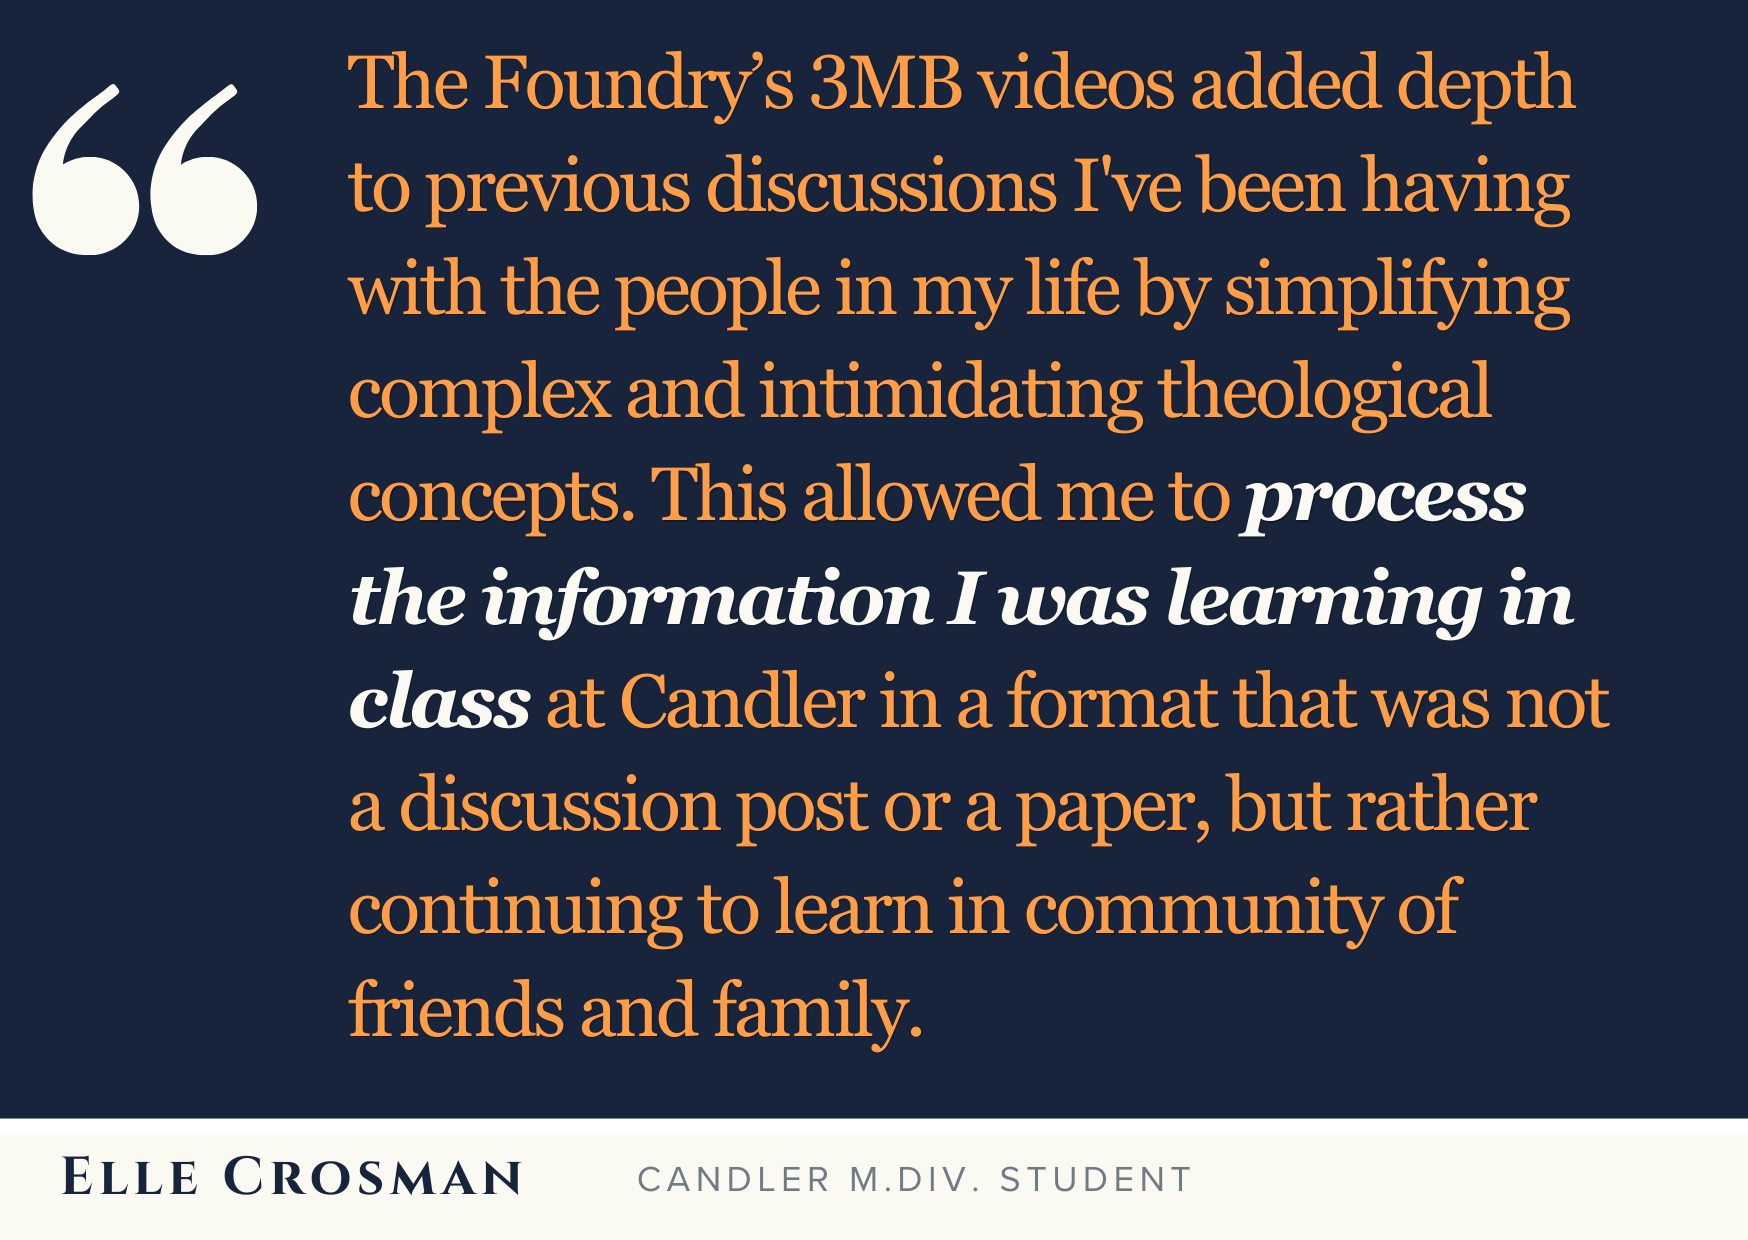
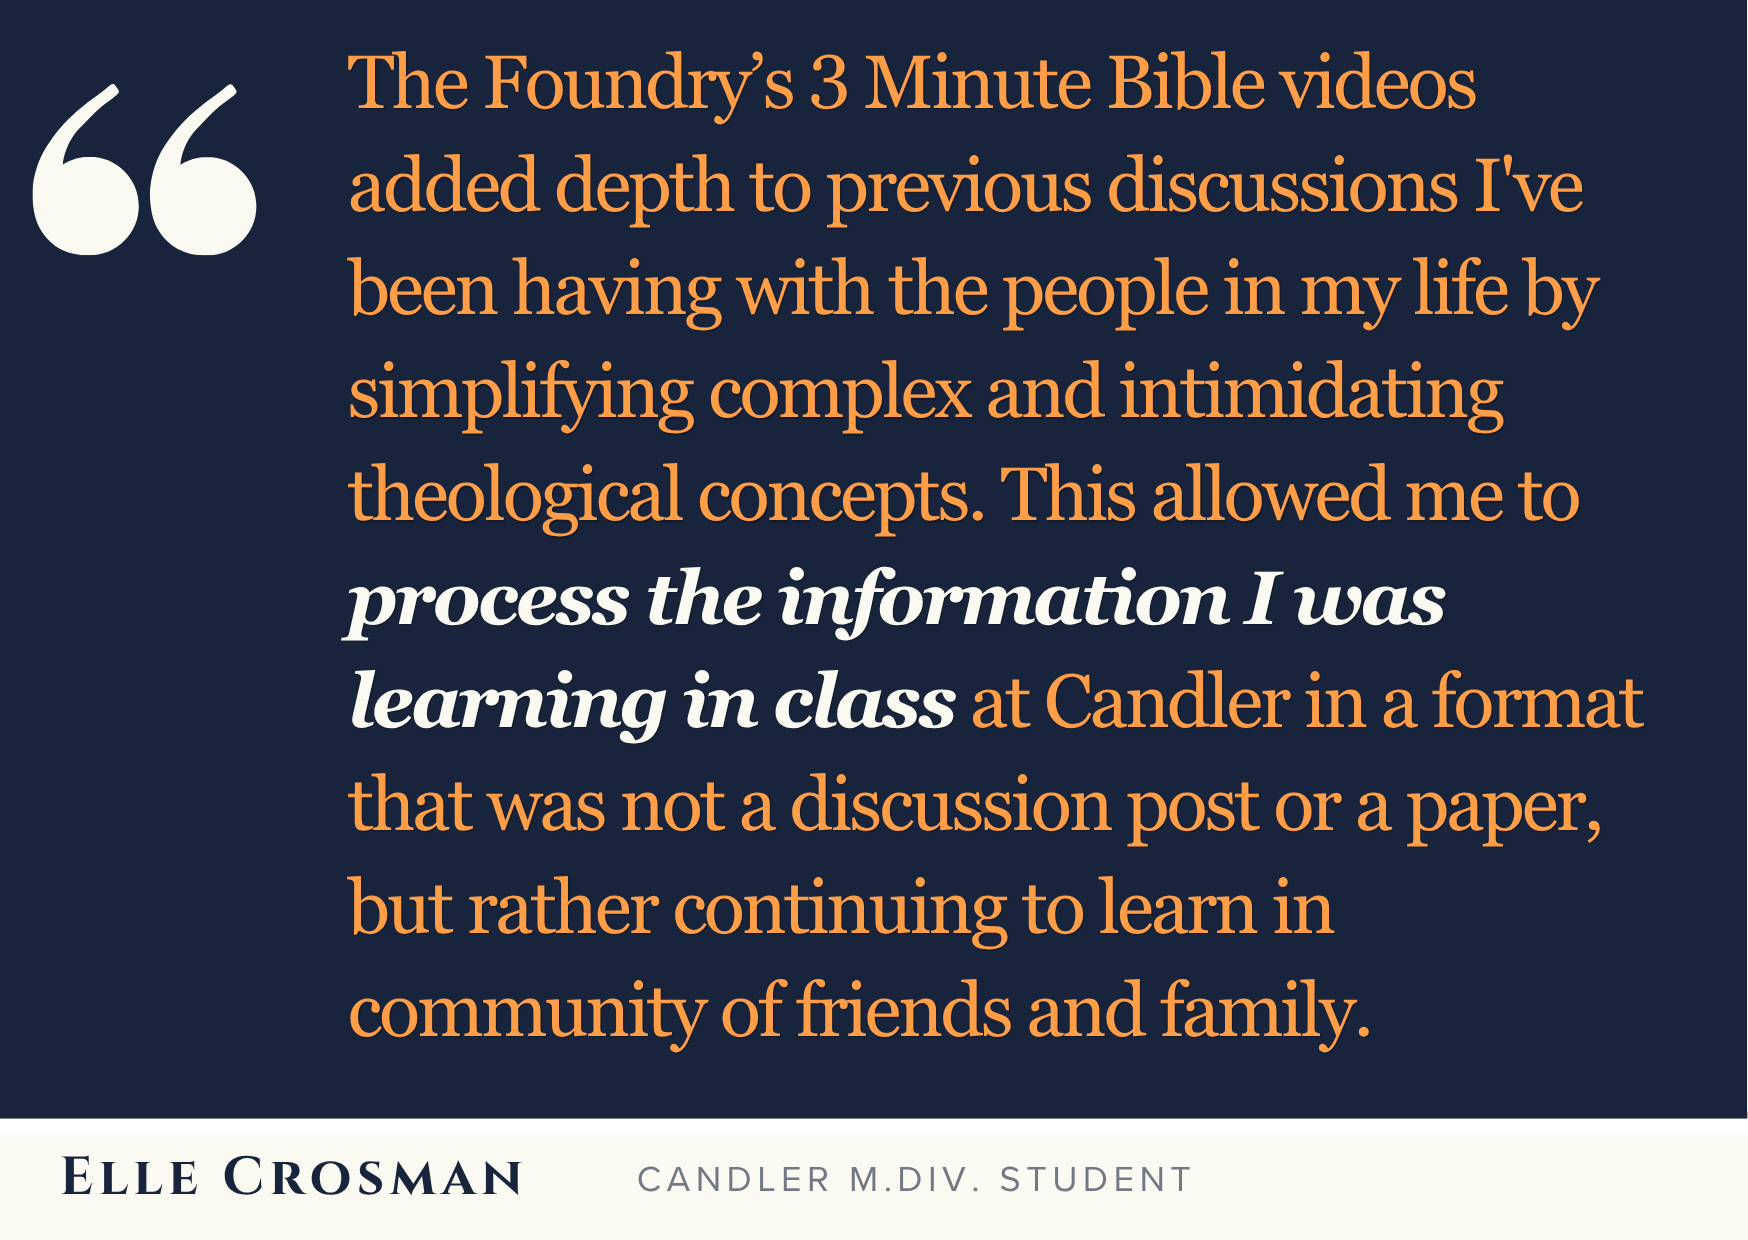
Reorder impact cards (rich cards first) + correct "3 Minute Bible" copy
- Cards with a back or clip feature now lead each row; plain front-only
  cards (david-cross, joel-kemp, joanne-solis-walker, mina-lee) sort last.
- Swap in corrected art for Elizabeth Arnold, Elle Crosman, Hannah Ripert,
  and Hangil Ryu: "3-Minute Bible"/"3MB" -> "3 Minute Bible". Clip caption
  text updated to match.

diff --git a/index.html b/index.html
@@ -7164,12 +7164,12 @@ var CI_STORY_PAGE = {
       stories: [
         { frontImage: '/assets/candler-impact-cards/hannah-ford.png',    backImage: '/assets/candler-impact-cards/hannah-ford-back.png',    name: 'Hannah Ford',    role: 'Prospective M.Div. Student',           width: CI_IMAGE_CARD_WIDTH, surface: CI_IMAGE_CARD_SURFACE, ink: CI_IMAGE_CARD_INK },
         { frontImage: '/assets/candler-impact-cards/tammy-edwards.png',   backImage: '/assets/candler-impact-cards/tammy-edwards-back.png',   name: 'Tammy Edwards',   role: 'Candler M.Div. Student',               width: CI_IMAGE_CARD_WIDTH, surface: CI_IMAGE_CARD_SURFACE, ink: CI_IMAGE_CARD_INK },
-        { frontImage: '/assets/candler-impact-cards/david-cross.png',     name: 'David Cross',     role: 'Woodruff Scholar, Candler M.Div. Student',                                                              width: CI_IMAGE_CARD_WIDTH, surface: CI_IMAGE_CARD_SURFACE, ink: CI_IMAGE_CARD_INK },
         { frontImage: '/assets/candler-impact-cards/kara-nelson.png',     backImage: '/assets/candler-impact-cards/kara-nelson-back.png',     name: 'Kara Nelson',     role: 'Candler M.Div. Student',               width: CI_IMAGE_CARD_WIDTH, surface: CI_IMAGE_CARD_SURFACE, ink: CI_IMAGE_CARD_INK },
         { frontImage: '/assets/candler-impact-cards/emmanuel-kwarf.png',  backImage: '/assets/candler-impact-cards/emmanuel-kwarf-back.png',  name: 'Emmanuel Kwarf',  role: 'Candler M.Div. Student',               width: CI_IMAGE_CARD_WIDTH, surface: CI_IMAGE_CARD_SURFACE, ink: CI_IMAGE_CARD_INK },
         { frontImage: '/assets/candler-impact-cards/elle-crosman.png',    backImage: '/assets/candler-impact-cards/elle-crosman-back.png',    name: 'Elle Crosman',    role: 'Candler M.Div. Student',               width: CI_IMAGE_CARD_WIDTH, surface: CI_IMAGE_CARD_SURFACE, ink: CI_IMAGE_CARD_INK },
         { frontImage: '/assets/candler-impact-cards/hannah-ripert.png',   backImage: '/assets/candler-impact-cards/hannah-ripert-back.png',   name: 'Hannah Ripert',   role: 'Candler M.Div. Student',               width: CI_IMAGE_CARD_WIDTH, surface: CI_IMAGE_CARD_SURFACE, ink: CI_IMAGE_CARD_INK },
-        { frontImage: '/assets/candler-impact-cards/hangil-ryu.png',      backImage: '/assets/candler-impact-cards/hangil-ryu-back.png',      name: 'Hangil Ryu',      role: 'Candler M.Div. Student',               width: CI_IMAGE_CARD_WIDTH, surface: CI_IMAGE_CARD_SURFACE, ink: CI_IMAGE_CARD_INK }
+        { frontImage: '/assets/candler-impact-cards/hangil-ryu.png',      backImage: '/assets/candler-impact-cards/hangil-ryu-back.png',      name: 'Hangil Ryu',      role: 'Candler M.Div. Student',               width: CI_IMAGE_CARD_WIDTH, surface: CI_IMAGE_CARD_SURFACE, ink: CI_IMAGE_CARD_INK },
+        { frontImage: '/assets/candler-impact-cards/david-cross.png',     name: 'David Cross',     role: 'Woodruff Scholar, Candler M.Div. Student',                                                              width: CI_IMAGE_CARD_WIDTH, surface: CI_IMAGE_CARD_SURFACE, ink: CI_IMAGE_CARD_INK }
       ]
     },
     {
@@ -7179,13 +7179,13 @@ var CI_STORY_PAGE = {
       copy: 'How Foundry work sharpens faculty teaching, supports staff leadership, and turns Candler’s strengths into ministry-ready resources.',
       meta: '',
       stories: [
-        { frontImage: '/assets/candler-impact-cards/joel-kemp.png',            name: 'Dr. Joel B. Kemp',     role: 'Assistant Professor of Hebrew Bible',   width: CI_IMAGE_CARD_WIDTH, surface: CI_IMAGE_CARD_SURFACE, ink: CI_IMAGE_CARD_INK },
         { frontImage: '/assets/candler-impact-cards/elizabeth-arnold.png',     name: 'Dr. Elizabeth Arnold', role: 'The Candler Foundry',                   width: CI_IMAGE_CARD_WIDTH, surface: CI_IMAGE_CARD_SURFACE, ink: CI_IMAGE_CARD_INK,
-          // Hover-reveal pop-out clip — a full 3-minute 3-Minute-Bible sample (Vimeo, ad-free).
-          clip: { vimeo: 'https://vimeo.com/1198469430', caption: 'Watch a 3-Minute Bible sample', videoTitle: '3-Minute Bible · The Candler Foundry' } },
+          // Hover-reveal pop-out clip — a full 3 Minute Bible sample (Vimeo, ad-free).
+          clip: { vimeo: 'https://vimeo.com/1198469430', caption: 'Watch a 3 Minute Bible sample', videoTitle: '3 Minute Bible · The Candler Foundry' } },
         { frontImage: '/assets/candler-impact-cards/sam-martinez.png',         backImage: '/assets/candler-impact-cards/sam-martinez-back.png', name: 'Sam Martinez', role: 'Candler Admissions',          width: CI_IMAGE_CARD_WIDTH, surface: CI_IMAGE_CARD_SURFACE, ink: CI_IMAGE_CARD_INK },
-        { frontImage: '/assets/candler-impact-cards/joanne-solis-walker.png',  name: 'Dr. Joanne Solis-Walker', role: 'La Mesa Academy',                    width: CI_IMAGE_CARD_WIDTH, surface: CI_IMAGE_CARD_SURFACE, ink: CI_IMAGE_CARD_INK },
-        { frontImage: '/assets/candler-impact-cards/susan-hylen.png',          backImage: '/assets/candler-impact-cards/susan-hylen-back.png',  name: 'Dr. Susan Hylen', role: 'Candler School of Theology', width: CI_IMAGE_CARD_WIDTH, surface: CI_IMAGE_CARD_SURFACE, ink: CI_IMAGE_CARD_INK }
+        { frontImage: '/assets/candler-impact-cards/susan-hylen.png',          backImage: '/assets/candler-impact-cards/susan-hylen-back.png',  name: 'Dr. Susan Hylen', role: 'Candler School of Theology', width: CI_IMAGE_CARD_WIDTH, surface: CI_IMAGE_CARD_SURFACE, ink: CI_IMAGE_CARD_INK },
+        { frontImage: '/assets/candler-impact-cards/joel-kemp.png',            name: 'Dr. Joel B. Kemp',     role: 'Assistant Professor of Hebrew Bible',   width: CI_IMAGE_CARD_WIDTH, surface: CI_IMAGE_CARD_SURFACE, ink: CI_IMAGE_CARD_INK },
+        { frontImage: '/assets/candler-impact-cards/joanne-solis-walker.png',  name: 'Dr. Joanne Solis-Walker', role: 'La Mesa Academy',                    width: CI_IMAGE_CARD_WIDTH, surface: CI_IMAGE_CARD_SURFACE, ink: CI_IMAGE_CARD_INK }
       ]
     },
     {
@@ -7195,13 +7195,13 @@ var CI_STORY_PAGE = {
       copy: 'How alumni and church and community partners keep learning with Candler through the Foundry — sustaining formation long after graduation and out in the wider community.',
       meta: '',
       stories: [
-        { frontImage: '/assets/candler-impact-cards/mina-lee.png',        name: 'Mina Lee',            role: 'Candler Alumnus (M.T.S., 2026)',  width: CI_IMAGE_CARD_WIDTH, surface: CI_IMAGE_CARD_SURFACE, ink: CI_IMAGE_CARD_INK },
         { frontImage: '/assets/candler-impact-cards/carmie-mcdonald.png', name: 'Rev. Carmie McDonald', role: 'Candler Alumnus (M.Div., 2023)', width: CI_IMAGE_CARD_WIDTH, surface: CI_IMAGE_CARD_SURFACE, ink: CI_IMAGE_CARD_INK,
           // Hover-reveal pop-out clip — artwork-teaching segment (6:13–9:32):
           // Ryan presents the da Firenze fresco, "giving to a church isn't loftier than giving to the poor."
           clip: { youtube: '2M0JjOTU1CU', start: 373, end: 572, caption: 'See The Foundry in action at Carmie’s church', videoTitle: 'The Bible and Poverty · Church of the Epiphany' } },
         { frontImage: '/assets/candler-impact-cards/john-vaughn.png',     backImage: '/assets/candler-impact-cards/john-vaughn-back.png',  name: 'Rev. John Vaughn', role: 'Ebenezer Baptist Church',       width: CI_IMAGE_CARD_WIDTH, surface: CI_IMAGE_CARD_SURFACE, ink: CI_IMAGE_CARD_INK },
-        { frontImage: '/assets/candler-impact-cards/rebekah-lemon.png',   backImage: '/assets/candler-impact-cards/rebekah-lemon-back.png', name: 'Rev. Rebekah LeMon', role: 'Trinity Presbyterian Church', width: CI_IMAGE_CARD_WIDTH, surface: CI_IMAGE_CARD_SURFACE, ink: CI_IMAGE_CARD_INK }
+        { frontImage: '/assets/candler-impact-cards/rebekah-lemon.png',   backImage: '/assets/candler-impact-cards/rebekah-lemon-back.png', name: 'Rev. Rebekah LeMon', role: 'Trinity Presbyterian Church', width: CI_IMAGE_CARD_WIDTH, surface: CI_IMAGE_CARD_SURFACE, ink: CI_IMAGE_CARD_INK },
+        { frontImage: '/assets/candler-impact-cards/mina-lee.png',        name: 'Mina Lee',            role: 'Candler Alumnus (M.T.S., 2026)',  width: CI_IMAGE_CARD_WIDTH, surface: CI_IMAGE_CARD_SURFACE, ink: CI_IMAGE_CARD_INK }
       ]
     }
   ]

diff --git a/CANONICAL.md b/CANONICAL.md
@@ -48,9 +48,10 @@ Internal divider lines, awkward L-shaped photo sections, and accidental nested b
 **Rule:** Story cards are fully pre-composed PNGs. The front is the entire designed card art (quote panel, photo, color blocks, AND the name/title banner all baked in). When a card has a back, the back is ALSO a pre-composed PNG. There is **no HTML name overlay** anymore (see history note below). Rounded corners and the multi-layer lift shadow are preserved.
 
 **Lineup — 17 cards across 3 rows (11 have backs, 6 are front-only) (updated 2026-06-04):**
-- `student-stories` → **Current & Prospective Students** (8): hannah-ford*, tammy-edwards*, david-cross, kara-nelson*, emmanuel-kwarf*, elle-crosman*, hannah-ripert*, hangil-ryu*
-- `faculty-stories` → **Faculty & Staff** (5): joel-kemp, elizabeth-arnold, sam-martinez*, joanne-solis-walker, susan-hylen*
-- `alumni-stories` → **Alumni & Partners** (4): mina-lee, carmie-mcdonald, john-vaughn*, rebekah-lemon*
+Cards with a back OR a clip feature lead each row; plain front-only cards sort to the end (user request, so the richest cards are seen first before the row scrolls).
+- `student-stories` → **Current & Prospective Students** (8): hannah-ford*, tammy-edwards*, kara-nelson*, emmanuel-kwarf*, elle-crosman*, hannah-ripert*, hangil-ryu*, david-cross
+- `faculty-stories` → **Faculty & Staff** (5): elizabeth-arnold (clip), sam-martinez*, susan-hylen*, joel-kemp, joanne-solis-walker
+- `alumni-stories` → **Alumni & Partners** (4): carmie-mcdonald (clip), john-vaughn*, rebekah-lemon*, mina-lee
 
 `*` = has a back PNG and flips. The other 6 (david-cross, joel-kemp, elizabeth-arnold, joanne-solis-walker, mina-lee, carmie-mcdonald) are front-only and **must not flip**. Classification follows the user's manual assignment (e.g. Joanne Solis-Walker's banner reads "La Mesa Academy" but she is placed in Faculty & Staff; John Vaughn is a partner placed in Alumni & Partners).
 
